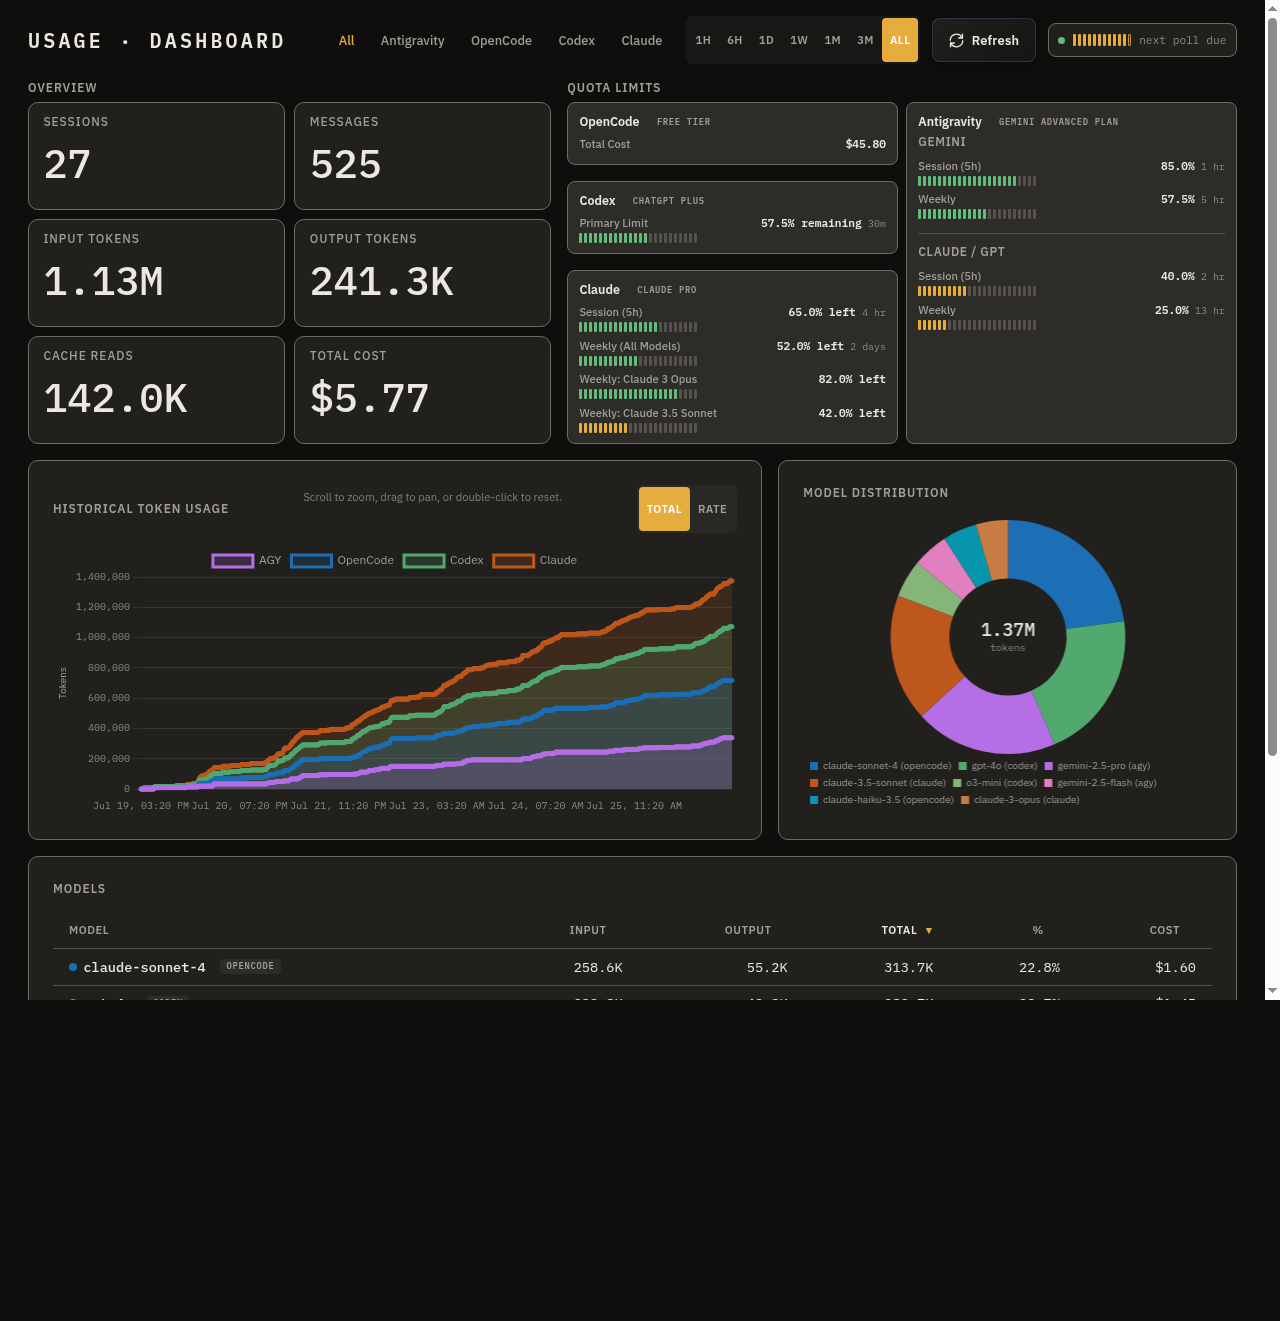
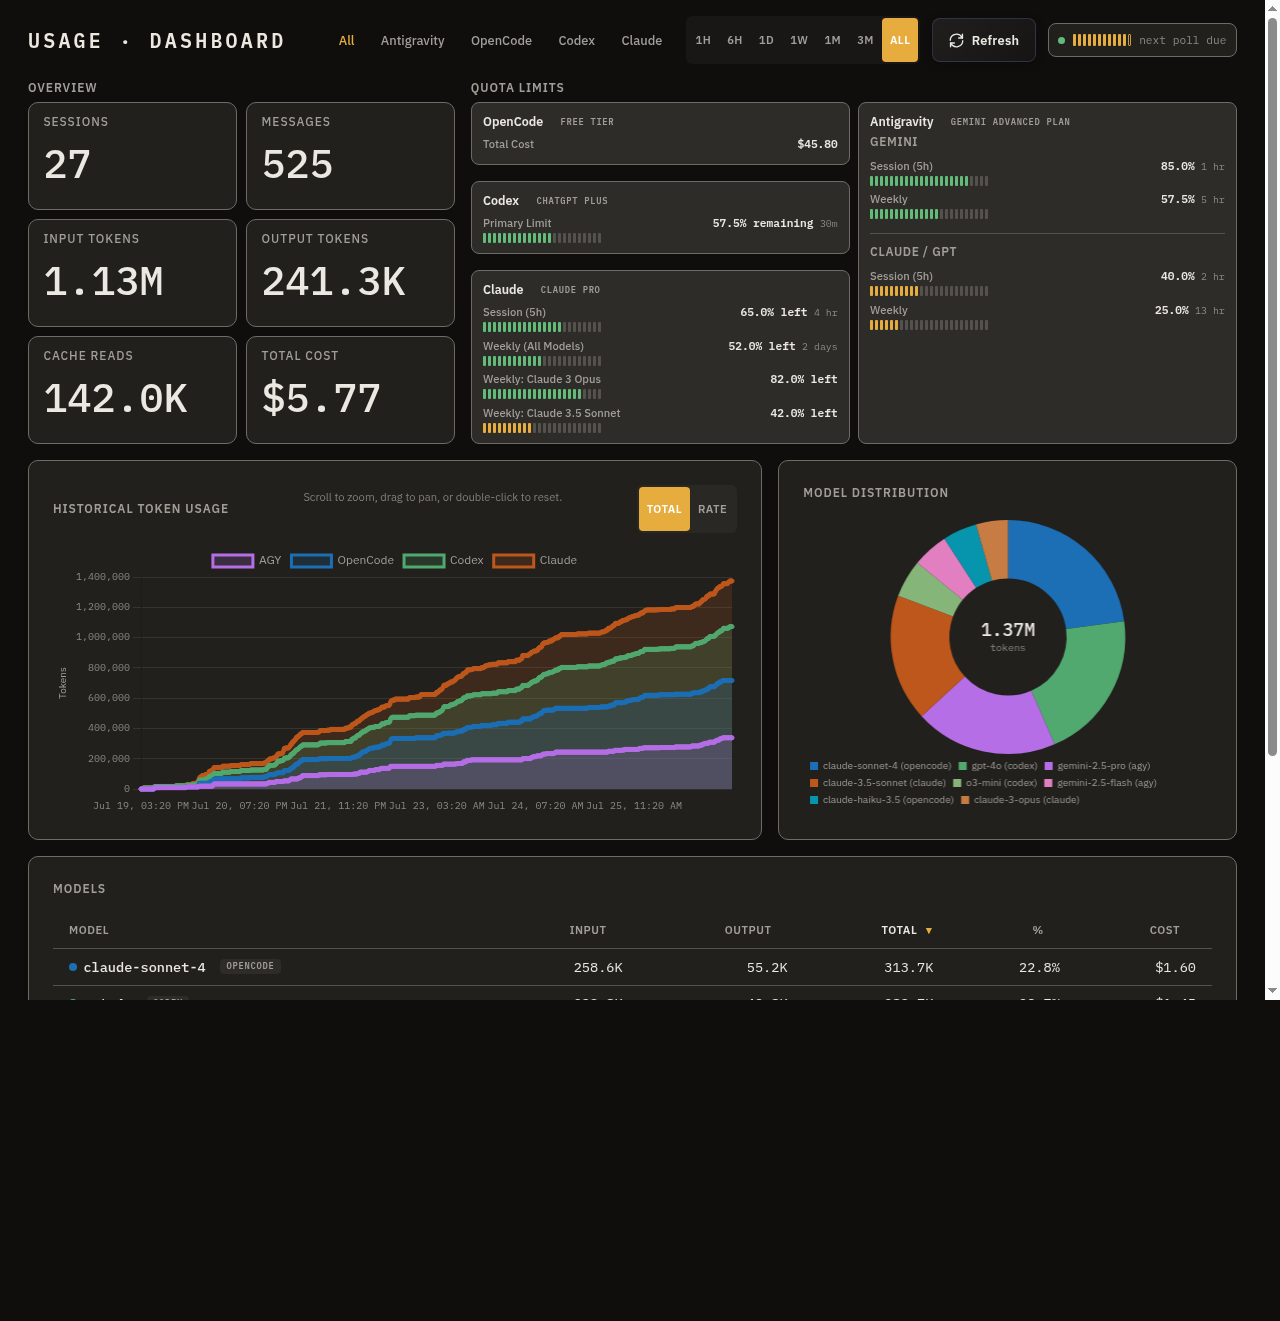
dashboard: narrow the overview column, keep both columns bottom-aligned
Overview goes from 1fr to 0.78fr against quota's 1.4fr (475px vs 853px at
1440), so the quota rail gets the width and the six metric cards get a
tighter block.

Quota cards now stretch to fill their column (grid-auto-rows: 1fr,
align-content: stretch) instead of bunching at the top. The columns already
measured the same height — both panels stretch to the grid row — but
align-content:start meant that whenever quota was the SHORTER side its cards
sat at the top and left a gap underneath, so the two columns looked ragged
even though the boxes matched. That only shows up on data where quota is
short, which is why it was invisible against the seeded demo set.

Verified on both datasets at 1440x900, comparing the bottom edge of the last
card in each column rather than the panel boxes:

    seeded demo   overview 528  quota 528
    live data     overview 420  quota 420

Claude-Session: https://claude.ai/code/session_011vFJKhEbvgQC6d8udoz15S

Changed region(s): [[0.1875, 0.0621, 0.5625, 0.3414], [0.5938, 0.0621, 0.8125, 0.3414]]

diff --git a/frontend/index.css b/frontend/index.css
@@ -824,8 +824,9 @@
         display: grid;
         grid-auto-flow: row;
         grid-template-columns: repeat(auto-fit, minmax(215px, 1fr));
+        grid-auto-rows: 1fr;
         gap: 0.5rem;
-        align-content: start;
+        align-content: stretch;
     }
 
     .quota-column {
@@ -1178,7 +1179,7 @@
        than leaving a gap under themselves. */
     .stats-row {
         display: grid;
-        grid-template-columns: 1fr 1.28fr;
+        grid-template-columns: 0.78fr 1.4fr;
         gap: 1rem;
         margin-bottom: 1rem;
         align-items: stretch;
